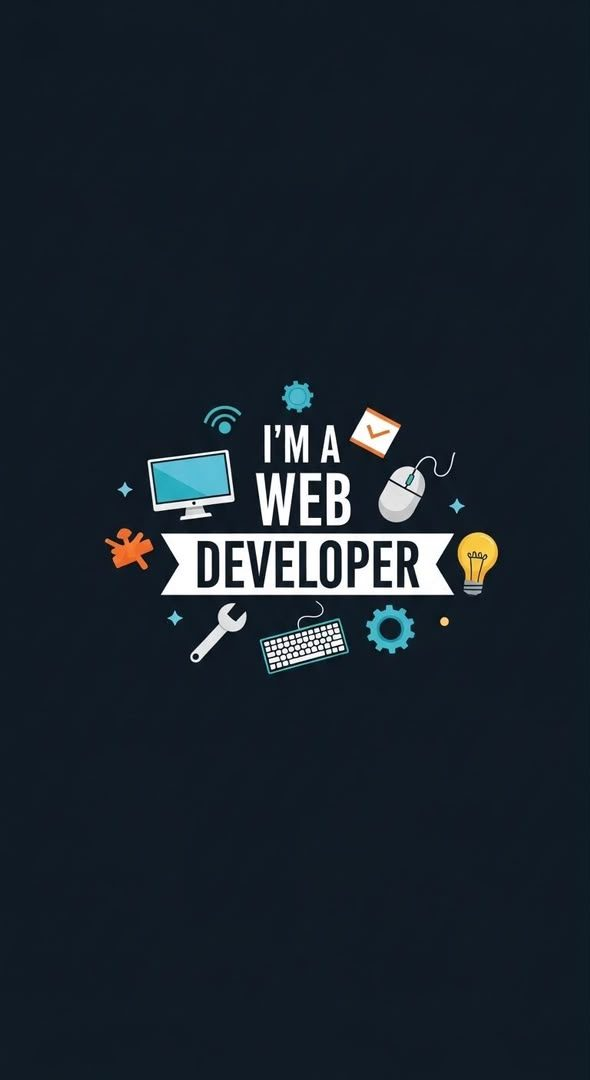
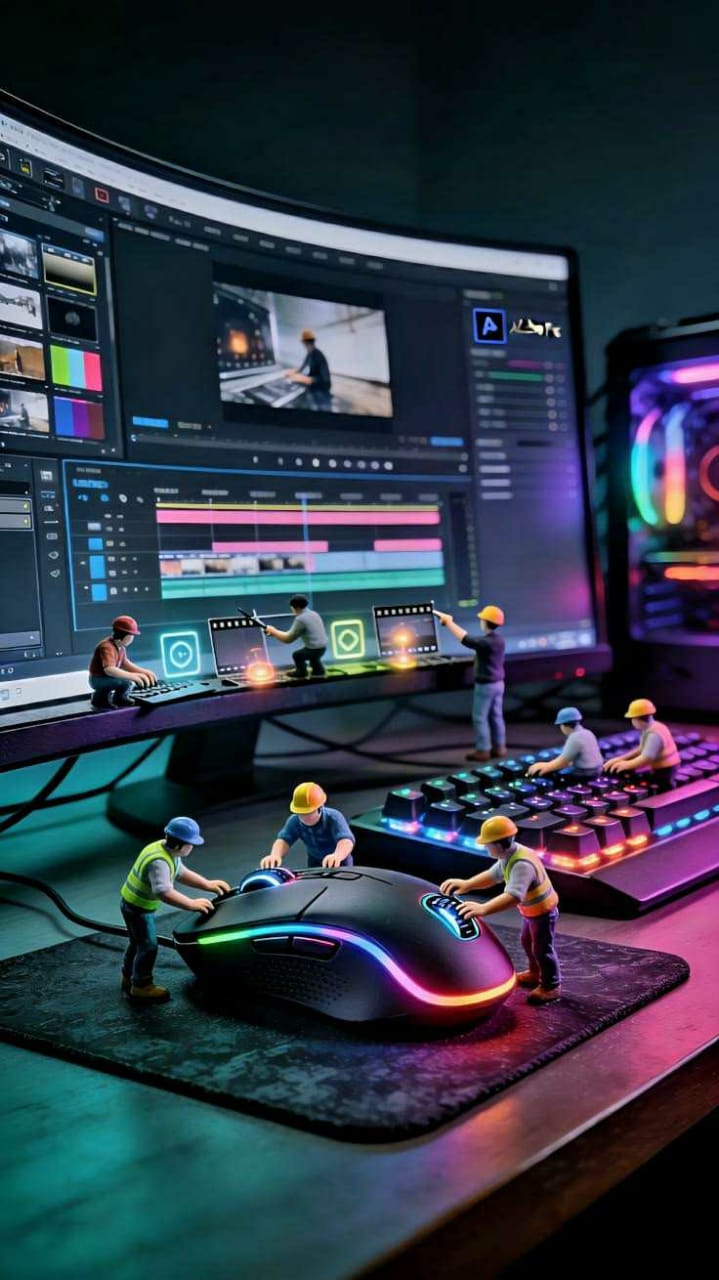
Auto update

diff --git a/public/app-intro.js b/public/app-intro.js
@@ -1,32 +1,58 @@
 /* ══════════════════════════════════════
    APP INTRO — swipe-through splash (native app only)
-   Shows once on first launch of the packaged app.
-   Ends on the Visual Studio Code slide, then reveals the app.
+   Slides + captions are managed live from the Admin Panel.
+   Re-shows automatically whenever admin publishes changes.
 ══════════════════════════════════════ */
 
-const APP_INTRO_SEEN_KEY = "godmode_app_intro_seen_v1";
+const APP_INTRO_CACHE_KEY     = "godmode_app_intro_cache_v2";
+const APP_INTRO_LASTSEEN_KEY  = "godmode_app_intro_lastseen_v2";
 
-const APP_INTRO_SLIDES = [
-  "app-intro/slide1.jpg",
-  "app-intro/slide2.jpg",
-  "app-intro/slide3.jpg",
-  "app-intro/slide4.jpg" // Visual Studio Code logo — last slide
+// Fallback slides used only if Firestore has never been configured yet
+const APP_INTRO_FALLBACK_SLIDES = [
+  { url: "app-intro/slide1.jpg", caption: "" },
+  { url: "app-intro/slide2.jpg", caption: "" },
+  { url: "app-intro/slide3.jpg", caption: "" },
+  { url: "app-intro/slide4.jpg", caption: "" }
 ];
 
 function isNativeGodModeApp() {
   return !!(window.Capacitor && window.Capacitor.isNativePlatform && window.Capacitor.isNativePlatform());
 }
 
-function buildAppIntroOverlay() {
+async function fetchAppIntroSlides() {
+  try {
+    const db = typeof initAnnounceDB === "function" ? await initAnnounceDB() : null;
+    if (!db) throw new Error("no db");
+    const { doc, getDoc } = await import("https://www.gstatic.com/firebasejs/10.12.0/firebase-firestore.js");
+    const snap = await getDoc(doc(db, "global_settings", "app_intro"));
+    if (!snap.exists()) throw new Error("no doc");
+    const data = snap.data();
+    if (!Array.isArray(data.slides) || !data.slides.length) throw new Error("empty");
+    const result = { slides: data.slides, updatedAt: data.updatedAt || 0 };
+    try { localStorage.setItem(APP_INTRO_CACHE_KEY, JSON.stringify(result)); } catch {}
+    return result;
+  } catch (e) {
+    try {
+      const cached = localStorage.getItem(APP_INTRO_CACHE_KEY);
+      if (cached) return JSON.parse(cached);
+    } catch {}
+    return { slides: APP_INTRO_FALLBACK_SLIDES, updatedAt: 0 };
+  }
+}
+
+function buildAppIntroOverlay(slides, updatedAt) {
   const overlay = document.createElement("div");
   overlay.id = "appIntroOverlay";
   overlay.className = "app-intro-overlay";
 
-  const slidesHtml = APP_INTRO_SLIDES.map((src, i) =>
-    `<div class="app-intro-slide"><img src="${src}" alt="slide ${i + 1}"></div>`
+  const slidesHtml = slides.map((s, i) =>
+    `<div class="app-intro-slide">
+       <img src="${s.url}" alt="slide ${i + 1}">
+       ${s.caption ? `<div class="app-intro-caption">${s.caption.replace(/</g,"&lt;")}</div>` : ""}
+     </div>`
   ).join("");
 
-  const dotsHtml = APP_INTRO_SLIDES.map((_, i) =>
+  const dotsHtml = slides.map((_, i) =>
     `<div class="app-intro-dot${i === 0 ? " active" : ""}" data-dot="${i}"></div>`
   ).join("");
 
@@ -42,7 +68,7 @@ function buildAppIntroOverlay() {
   const dots = overlay.querySelectorAll(".app-intro-dot");
   const cta = overlay.querySelector("#appIntroCta");
   const skip = overlay.querySelector("#appIntroSkip");
-  const lastIndex = APP_INTRO_SLIDES.length - 1;
+  const lastIndex = slides.length - 1;
 
   function updateActiveSlide() {
     const index = Math.round(track.scrollLeft / track.clientWidth);
@@ -54,26 +80,32 @@ function buildAppIntroOverlay() {
     requestAnimationFrame(updateActiveSlide);
   }, { passive: true });
 
-  cta.addEventListener("click", finishAppIntro);
-  skip.addEventListener("click", finishAppIntro);
+  cta.addEventListener("click", () => finishAppIntro(updatedAt));
+  skip.addEventListener("click", () => finishAppIntro(updatedAt));
 
   window.addEventListener("resize", () => {
     track.scrollLeft = Math.round(track.scrollLeft / track.clientWidth) * track.clientWidth;
   });
+
+  if (slides.length === 1) cta.classList.add("show");
 }
 
-function finishAppIntro() {
+function finishAppIntro(updatedAt) {
   const overlay = document.getElementById("appIntroOverlay");
   if (overlay) overlay.remove();
-  try { localStorage.setItem(APP_INTRO_SEEN_KEY, "1"); } catch {}
+  try { localStorage.setItem(APP_INTRO_LASTSEEN_KEY, String(updatedAt || 0)); } catch {}
 }
 
-document.addEventListener("DOMContentLoaded", () => {
+document.addEventListener("DOMContentLoaded", async () => {
   if (!isNativeGodModeApp()) return;
 
-  let seen = false;
-  try { seen = localStorage.getItem(APP_INTRO_SEEN_KEY) === "1"; } catch {}
-  if (seen) return;
+  const { slides, updatedAt } = await fetchAppIntroSlides();
+  if (!slides || !slides.length) return;
 
-  buildAppIntroOverlay();
+  let lastSeen = 0;
+  try { lastSeen = Number(localStorage.getItem(APP_INTRO_LASTSEEN_KEY) || 0); } catch {}
+
+  if (updatedAt && updatedAt <= lastSeen) return;
+
+  buildAppIntroOverlay(slides, updatedAt);
 });

diff --git a/public/admin.js b/public/admin.js
@@ -205,6 +205,9 @@ async function showAdminPanel() {
           <button class="adm-nav-btn" onclick="admTab('update',this);loadAdminUpdateTab();">
             <span class="adm-nav-icon">⬆</span><span>Push Update</span>
           </button>
+          <button class="adm-nav-btn" onclick="admTab('intro',this);loadAdminIntroTab();">
+            <span class="adm-nav-icon">🖼</span><span>App Intro</span>
+          </button>
         </nav>
 
         <div class="adm-sidebar-footer">
@@ -330,6 +333,9 @@ async function showAdminPanel() {
           </div>
           <div class="adm-tab" id="adm-tab-update">
             <div id="adm-update-content"></div>
+          </div>
+          <div class="adm-tab" id="adm-tab-intro">
+            <div id="adm-intro-content"></div>
           </div>
             <div class="adm-section-title">// BROADCAST HISTORY</div>
             <div id="adminHistory" class="adm-history-list">

diff --git a/app.js b/app.js
@@ -478,13 +478,13 @@ app.get("/api/github/contents", async (req, res) => {
    Push ONE file to GitHub */
 app.post("/api/github/push", async (req, res) => {
   const token = req.headers["x-github-token"];
-  const { owner, repo, branch, path: filePath, content, message, sha } = req.body;
+  const { owner, repo, branch, path: filePath, content, message, sha, encoding } = req.body;
   if (!token || !owner || !repo || !filePath || content === undefined) {
     return res.status(400).json({ error: "Missing required fields" });
   }
   try {
-    // base64 encode content
-    const encoded = Buffer.from(content, "utf8").toString("base64");
+    // base64 encode content (skip re-encoding if caller already sent base64, e.g. images)
+    const encoded = encoding === "base64" ? content : Buffer.from(content, "utf8").toString("base64");
     const body = {
       message: message || `Update ${filePath}`,
       content: encoded,

diff --git a/public/app-intro.css b/public/app-intro.css
@@ -24,9 +24,16 @@
   position:relative;
 }
 .app-intro-slide img{
-  max-width:100%; max-height:100%;
+  max-width:100%; max-height:78%;
   width:auto; height:auto;
   object-fit:contain;
+}
+.app-intro-caption{
+  position:absolute; bottom:130px; left:24px; right:24px;
+  z-index:200001; text-align:center;
+  color:#e6edf3; font-size:16px; line-height:1.4;
+  font-family:inherit; text-shadow:0 2px 8px rgba(0,0,0,.5);
+  pointer-events:none;
 }
 
 .app-intro-dots{
